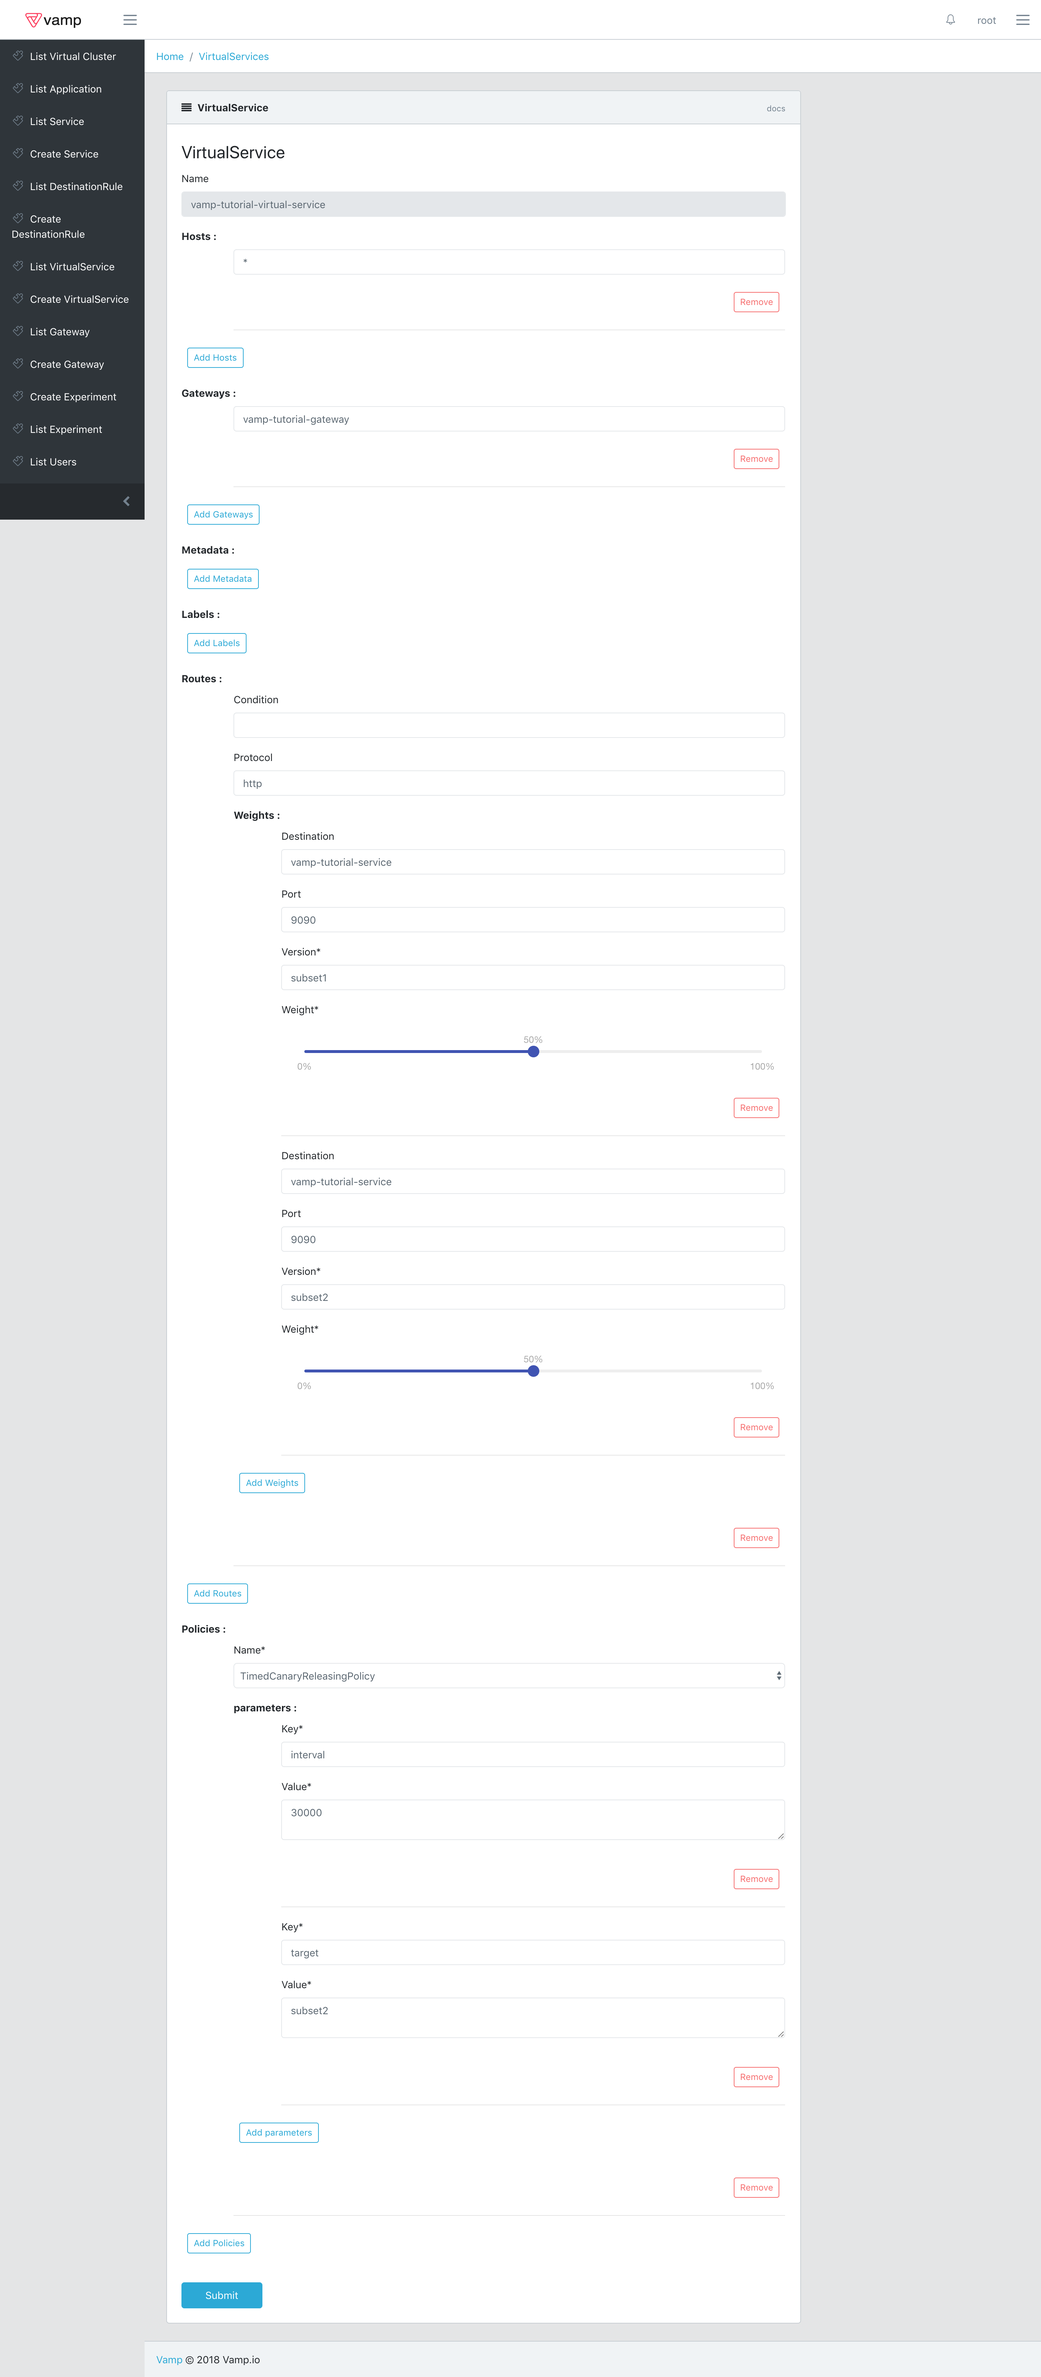
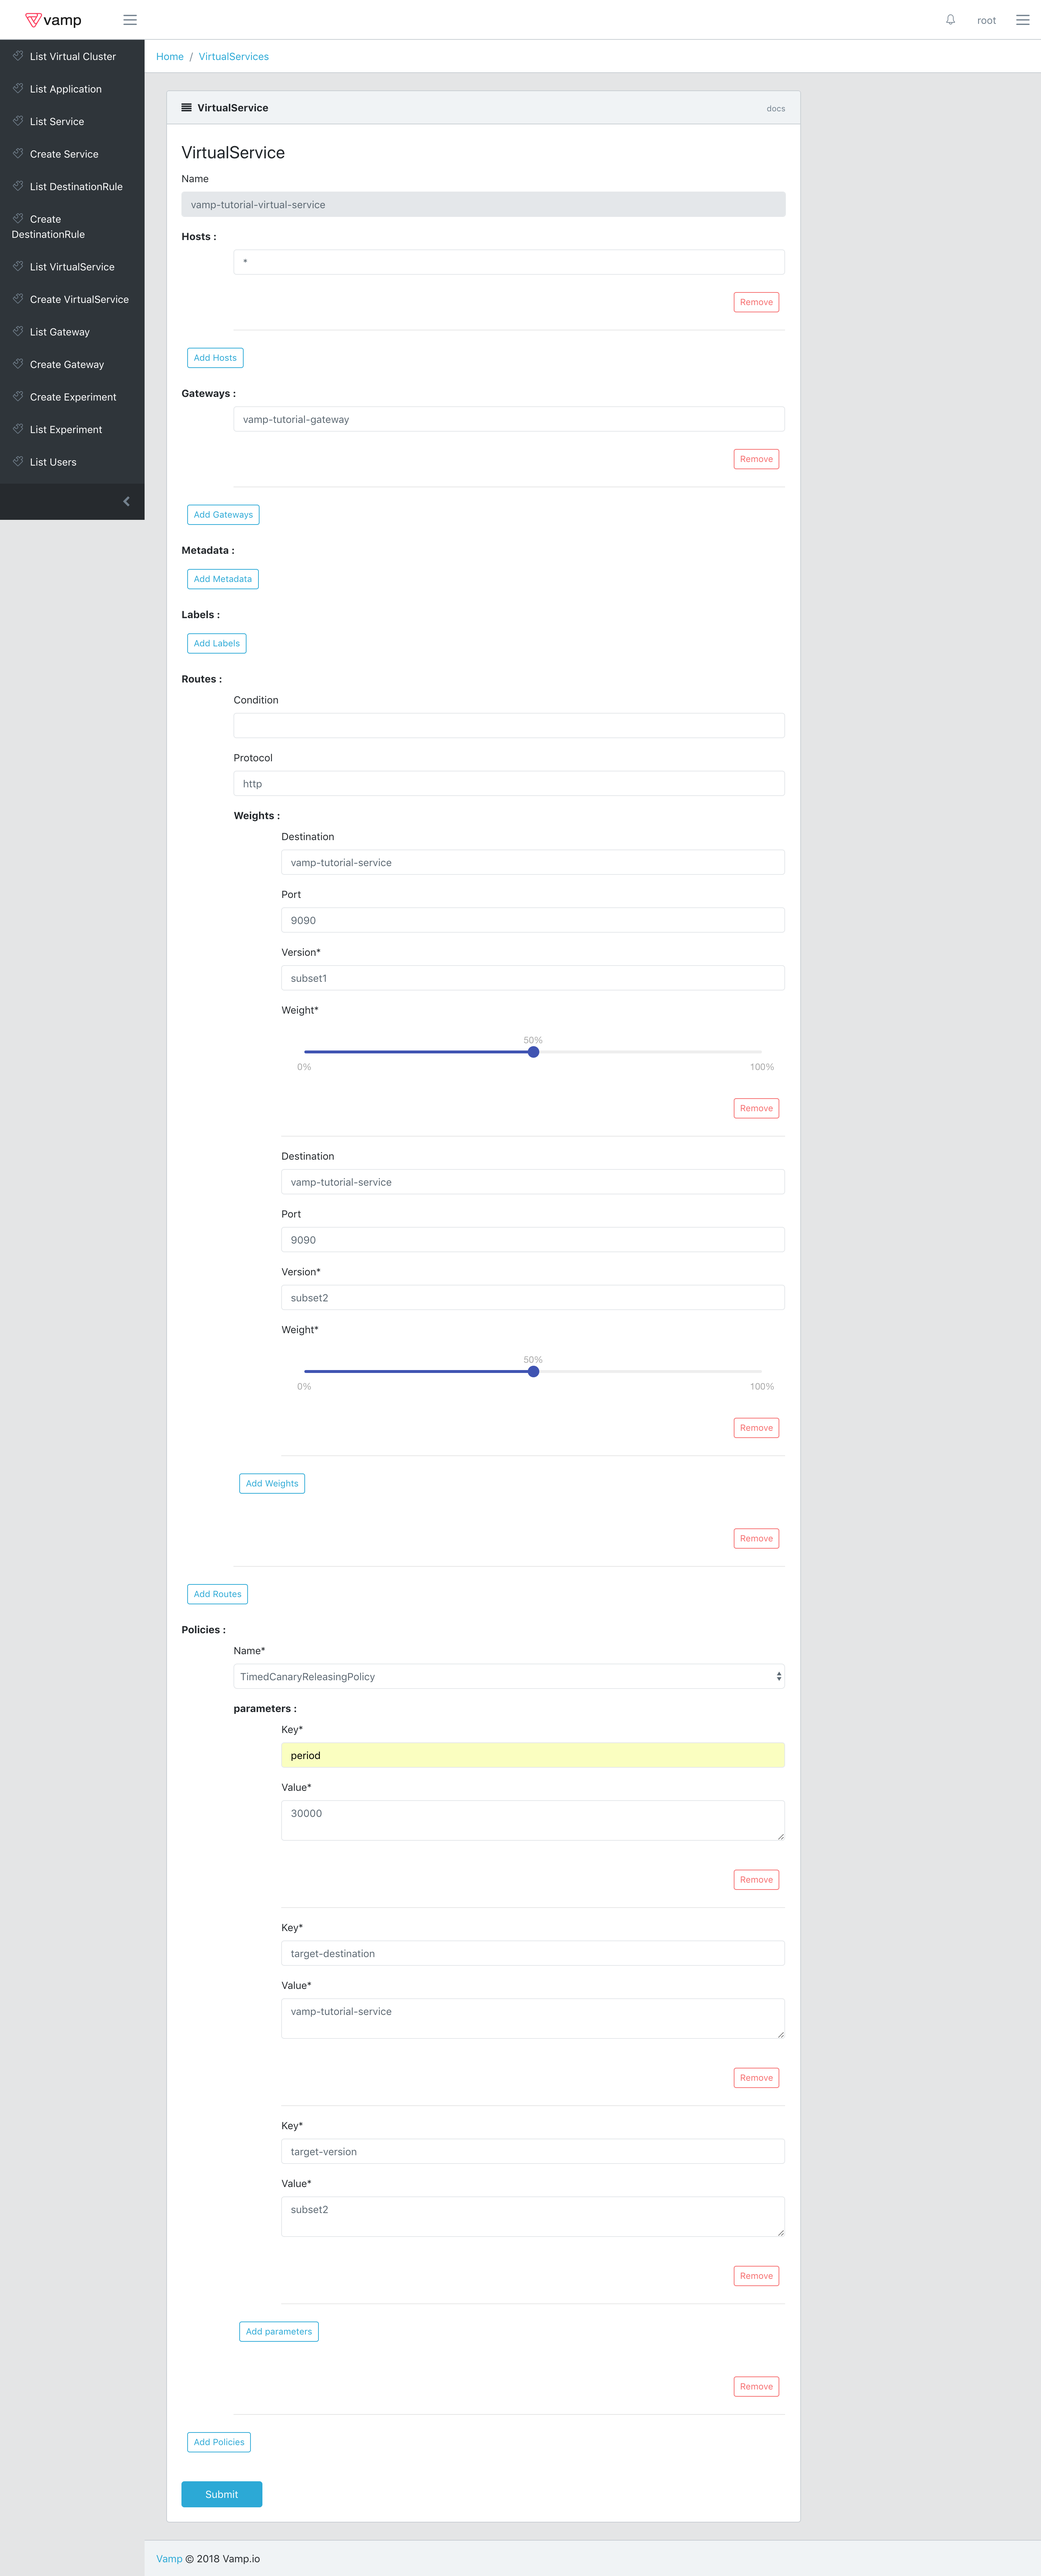
Ongoing readme update

diff --git a/README.md b/README.md
@@ -21,6 +21,7 @@ This Guide will help you set up Lamia on a kubernetes cluster.
          * [Performing a Canary Release](#performing-a-canary-release-1)
             * [Metric based canary release](#metric-based-canary-release)
             * [Custom canary release](#custom-canary-release)
+         * [Creating an Experiment](#creating-an-experiment)   
       * [API](#api)
 
 ## Installation
@@ -194,6 +195,7 @@ These labels are:
 Provided the first two labels are set, then once Lamia is deployed, it will import all the resources from a namespace into the current Project and Cluster and add the two optinal labels to the namespace if they are missing.
 
 You can use the sample [namespace.yaml](samples/namespace.yaml) to create a Virtual Cluster called `vamp-tutorial`.
+
 ````
 kubectl create -f namespace.yaml
 ````
@@ -529,7 +531,7 @@ Select Virtual Service - List Virtual Service - edit and specify the values show
 
 What you just did will trigger an automated process that will gradually shift the weights towards your target (version2 in this case).
 You will periodically get notifications that show the updates being applied to the virtual service.
-As usual you will be able to check the weights status from the Gateway's detail.
+As usual you will be able to check the weights status from the Virtual Service's detail.
 It is also possible to configure the weight change at each update. The default value is 10, but you can specify it by adding the "step" parameter wth the desired value.
 
 This is, of course, a pretty limited example. Usually you would like to put some form of rule to decide which version should prevail.
@@ -656,7 +658,7 @@ To do that you would have to use the last type of Policy available at the moment
 by putting the condition
 
 ````
-if ( ( metric "version1" "external_upstream_rq_2xx" / metric "version1" "upstream_rq_total" ) > ( metric "version2" "external_upstream_rq_2xx" / metric "version2" "upstream_rq_total" ) ) { result = version1; } else if ( ( metric "version1" "external_upstream_rq_2xx" / metric "version1" "upstream_rq_total" ) < ( metric "version2" "external_upstream_rq_2xx" / metric "version2" "upstream_rq_total" ) ) { result = version2; } else { result = nil; } result
+if ( ( metric "vamp-tutorial-service" 9090 "subset1" "internal_upstream_rq_2xx" / metric "vamp-tutorial-service" 9090 "subset1" "upstream_rq_total" ) > ( metric "vamp-tutorial-service" 9090 "subset2" "internal_upstream_rq_2xx" / metric "vamp-tutorial-service" 9090 "subset2" "upstream_rq_total" ) ) { result = "vamp-tutorial-service 9090 subset1"; } else if ( ( metric "vamp-tutorial-service" 9090 "subset1" "internal_upstream_rq_2xx" / metric "vamp-tutorial-service" 9090 "subset1" "upstream_rq_total" ) < ( metric "vamp-tutorial-service" 9090 "subset2" "internal_upstream_rq_2xx" / metric "vamp-tutorial-service" 9090 "subset2" "upstream_rq_total" ) ) { result = "vamp-tutorial-service 9090 subset2"; } else { result = nil; } result
 ````
 
 in the value field for the metric parameter
@@ -671,6 +673,69 @@ You can now keep on experimenting with the Virtual Service, trying new things. K
 ````
 kubectl replace -f deployments.yaml
 ````
+
+### Creating an Experiment
+
+Experiments are a new feature introduced with Lamia 0.2.0.
+They allow to quickly set up virtual services for A/B testing of different versions.
+In order to test Experiments you can execute [demo-setup.sh](samples/experiment-demo/demo-setup.sh).
+If everything works correctly, this will produce the following output
+
+````
+namespace "vamp-demo" created
+deployment "deployment1" created
+deployment "deployment2" created
+````
+
+At this point you will have a new namespace named vamp-demo containing two versions of a simple e-commerce, that wil be imported by Lamia into a single application.
+Now, before you can proceed with setting up the Experiment you will first have to create a Service a Detsination Rule and a Gateway for the Experment to use.
+Since you already did that before in previous steps of this tutorial, you shoul be able to go through it quickly by referring to the configurations shown below.
+**Mind the fact that before creaing the new Gateway you should delete the one you created for the previous steps of the tutorial.
+Since we are keeping a very generic configuration, they might otherwise end up conflicting with each other.**
+
+![](images/screen23.png)
+
+![](images/screen24.png)
+
+![](images/screen25.png)
+
+Once everything is ready you can set up the Experiment itself.
+Select Create Experiment and submit the following configuration.
+
+![](images/screen26.png)
+
+To make a bit clearer what is going to happen when you submit let's first go through the purpose of each field:
+
+- **Service Name**: the name of the service on which you want to run the A/B testing.
+- **Service Port**: the Service port to use.
+- **Gateway Name**: the Gatway trhough which the Service will be exposed.
+- **Period in minutes**: the time interval in minutes after which periodic updates to the configuration will happen.
+- **Step**: the amount by which route's weights will shift at each update.
+- **Tags**: at the moment tags are just descriptive values for a specific version of the service.
+- **Subset**: the subset of the service.
+- **Target**: the url that we want the users to reach to consider the test a success.
+
+When the form has been correctly filled and submitted the experiment will first save its configuration and then create an Experiment managed Virtual Service with the same name.
+By clicking on List Virtual Service you will be able to see this new Virtual Service and check its configuration, although you won't be able to change it or delete it directly.
+Below you can see how ths configuraiton should look:
+
+![](images/screen27.png)
+
+We realise this configuration can feel rather obscure, so let's walk through it together.
+The Virtual Service defines three routes. The first two are easy to understand: they each lead to one of the deployed versions. The third one, instead, is evenly load balancing between two versions of a Cookie Server.
+The purpose of this configuration is to direct new visitors towards the Cookie Server which will then set cookies identifying them as a specific user and assigning them to one of the configured subsets.
+Once this is done, the Cookie Server redirects the user back to the original url, sending him back through the Virtual Services. This time, however, having a Subset Cookie, one of the conditions set on the first two routes applies and the user is forwarded to a specific version of the landing page. This is seamless in browsers, so users don't experience any interruption, and adds a neglectable overhead, since it affect only one call per user .
+Thanks to our reliance on cookies, we are able to provide users with a consistent experience while continuing our test, meaning that subsequent requests coming from the same user in a short period of time will always go to the same version.
+Depending on the test results, the policy defined on the Virtual Service will then move more users to more successful version, i.e. versions with a better ratio of users that reached the target over total number of users that reached the landing page.
+This is of course achieved by changing the weights of the Cookie Servers routes according to the Step value defined in the Experiment configuration.
+
+Besides the Virtual Service itself, the Experiment is also managing a set of other resources:
+
+- one Cookie Server Deployment per Subset involved in the test.
+- a Service definition grouping the Cookie Servers.
+- a Destination Rule bound to the Cookie Servers' Service.
+
+All these resources are not visible in Lamia and will be automatically deleted when the Experiment is removed.
 
 ## API
 
